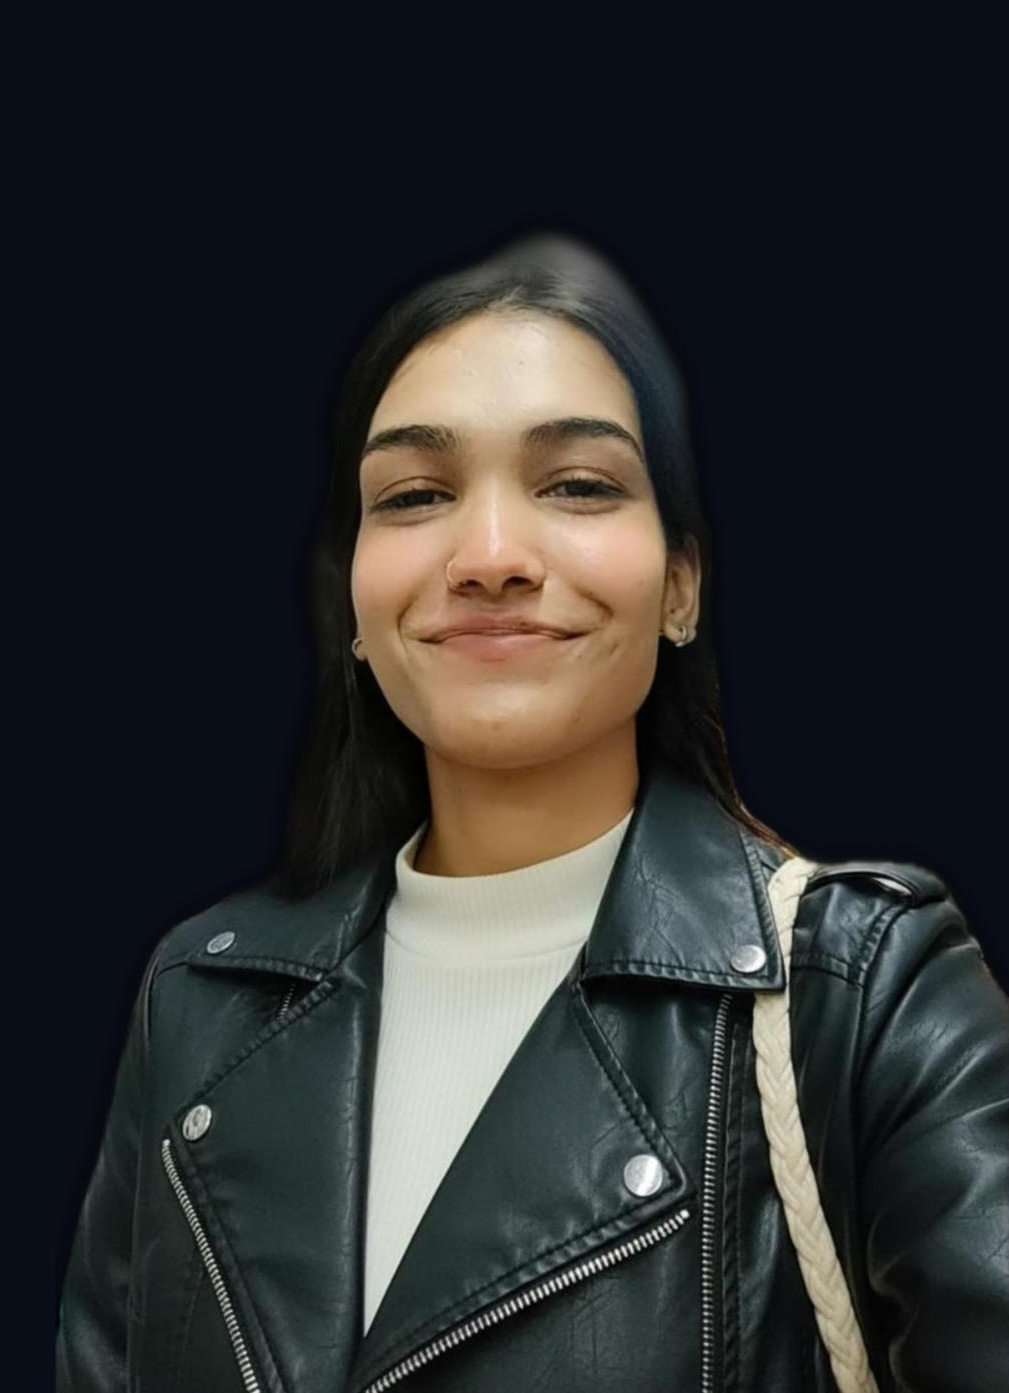
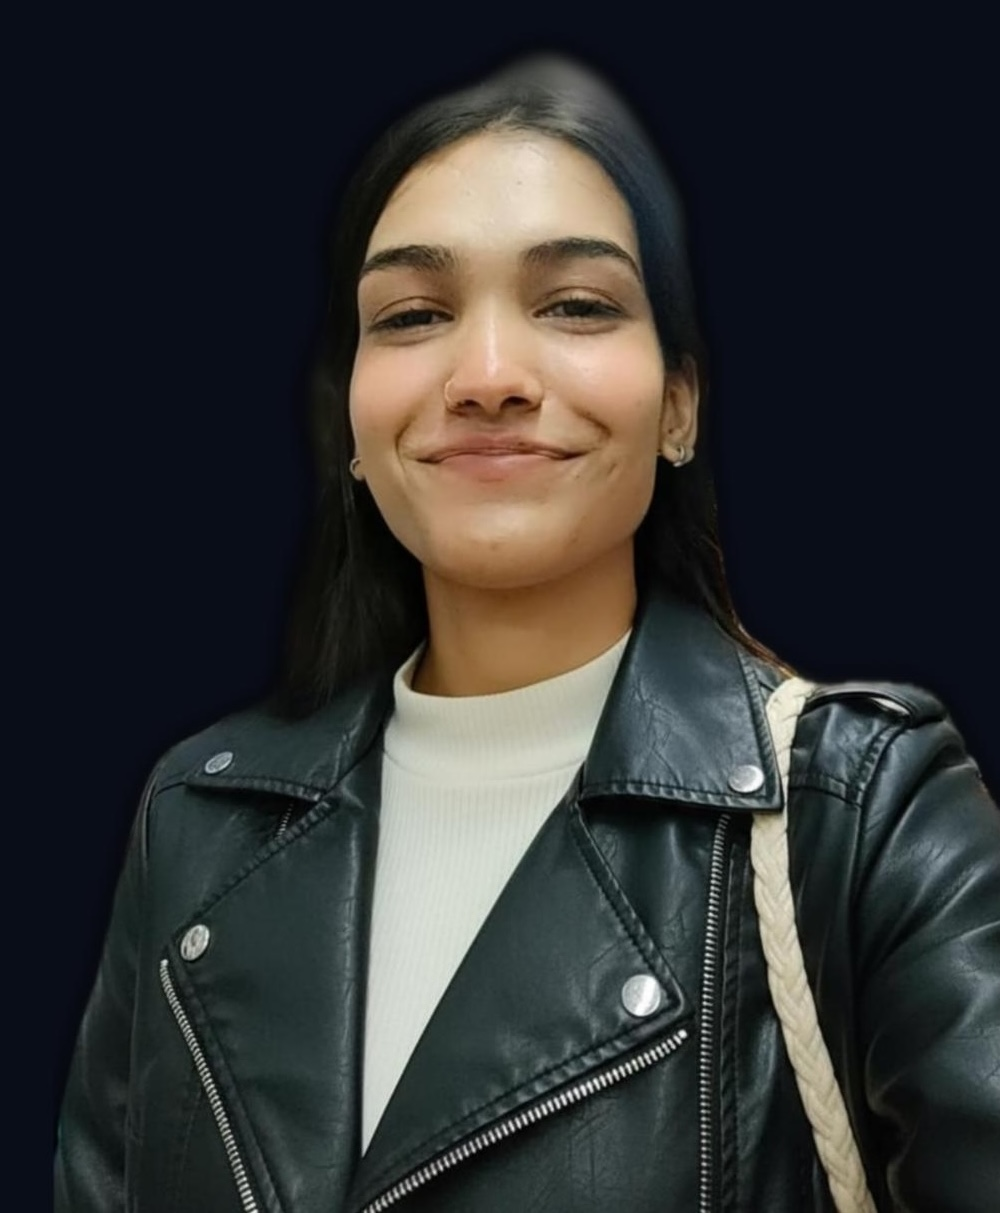
Update homepage content and profile image

Changed region(s): [[0.124, 0.0305, 1.0, 1.0], [0.062, 0.7321, 0.124, 0.8846], [0.341, 0.8846, 0.403, 0.9761]]

diff --git a/index.html b/index.html
@@ -3,10 +3,10 @@
   <head>
     <meta charset="UTF-8" />
     <meta name="viewport" content="width=device-width, initial-scale=1.0" />
-    <title>Portfolio | Full Stack Developer</title>
+    <title>Portfolio | Soumya Mishra </title>
     <meta name="description" content="Professional portfolio showcasing web development skills, projects, and experience" />
     <meta name="author" content="Developer" />
-    <meta property="og:title" content="Portfolio | Full Stack Developer" />
+    <meta property="og:title" content="Portfolio | Soumya Mishra " />
     <meta property="og:description" content="Professional portfolio showcasing web development skills, projects, and experience" />
     <meta property="og:type" content="website" />
     <meta property="og:image" content="https://lovable.dev/opengraph-image-p98pqg.png" />
